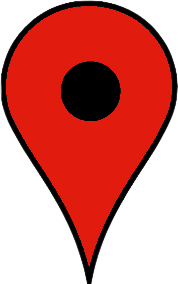
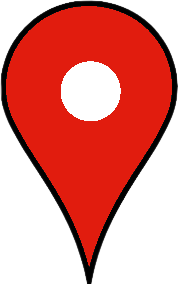
chore： 地图显示优化

Changed region(s): [[0.3371, 0.1972, 0.7022, 0.4507]]

diff --git a/pages/shbzf/map.js b/pages/shbzf/map.js
@@ -205,7 +205,7 @@ Page({
           id: PROJECT_BASE + idx,
           latitude: p.latitude || p.longitude_lat,
           longitude: p.longitude || p.longitude_lng,
-          iconPath: '/assets/red.png',
+          iconPath: '/assets/red2.png',
           width: 22,
           height: 22,
           label: {
